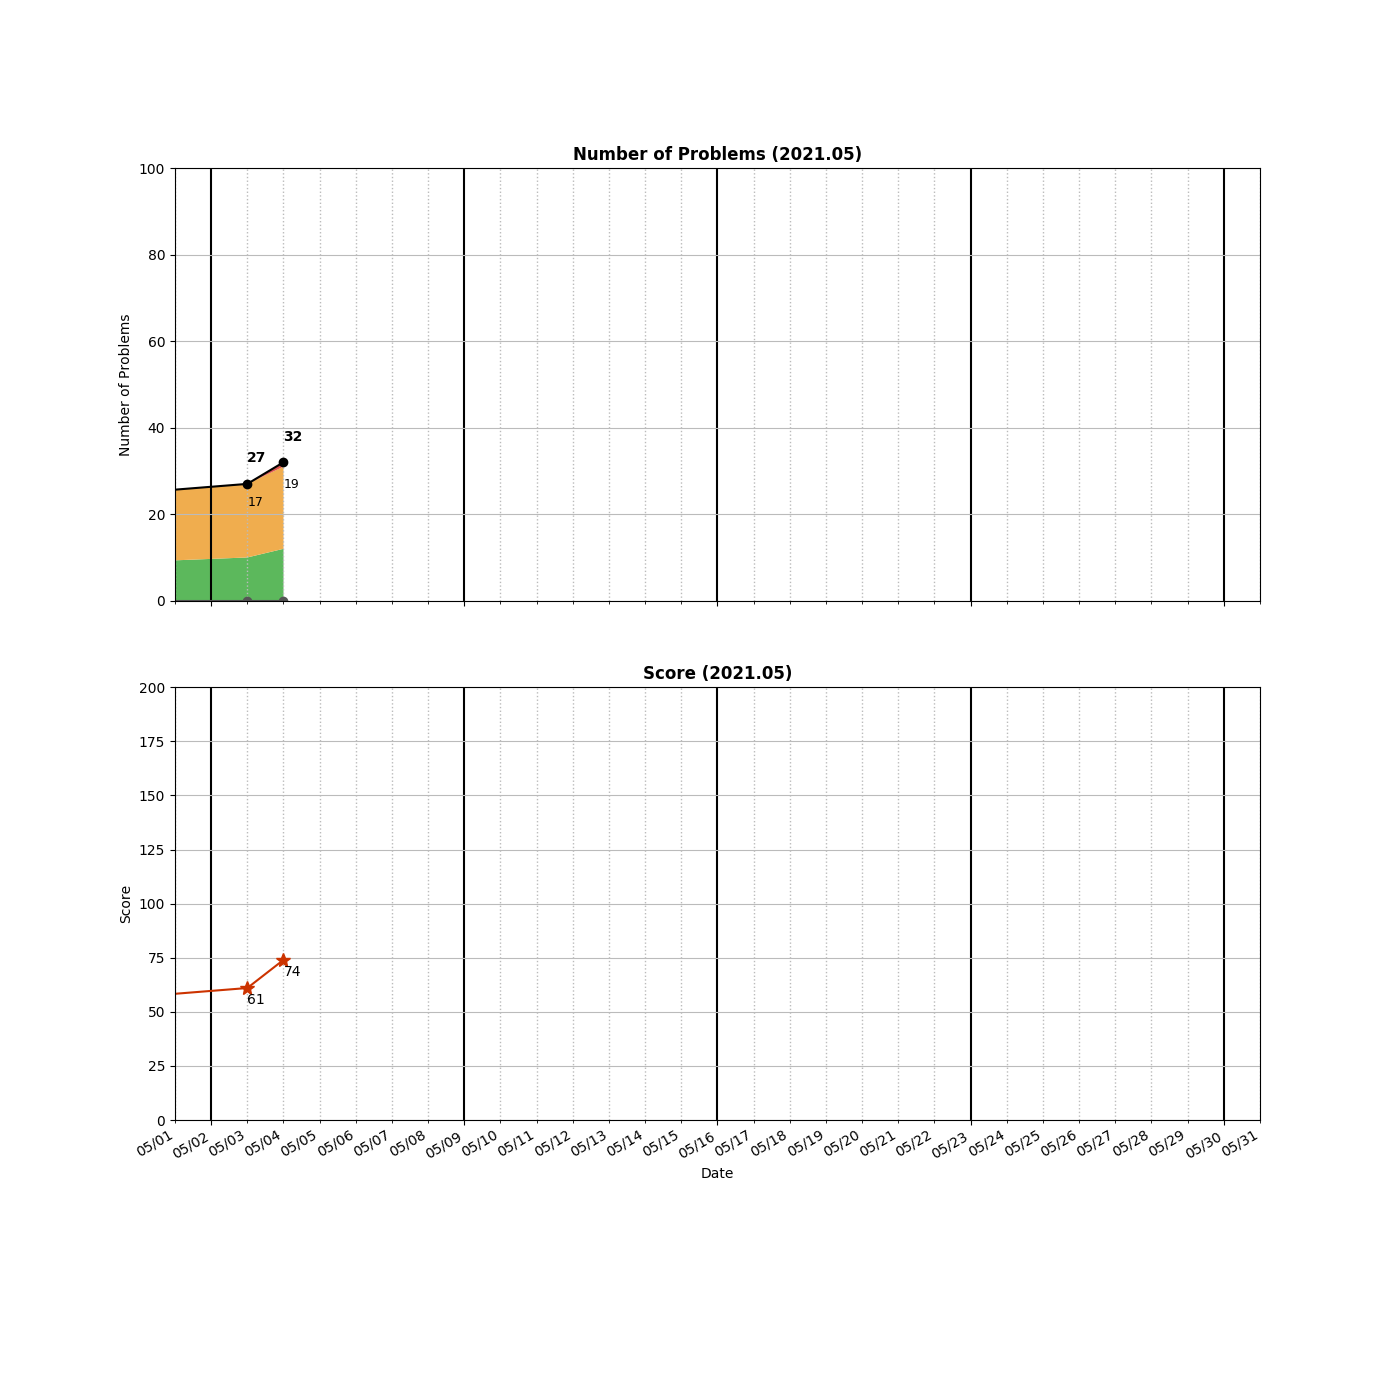
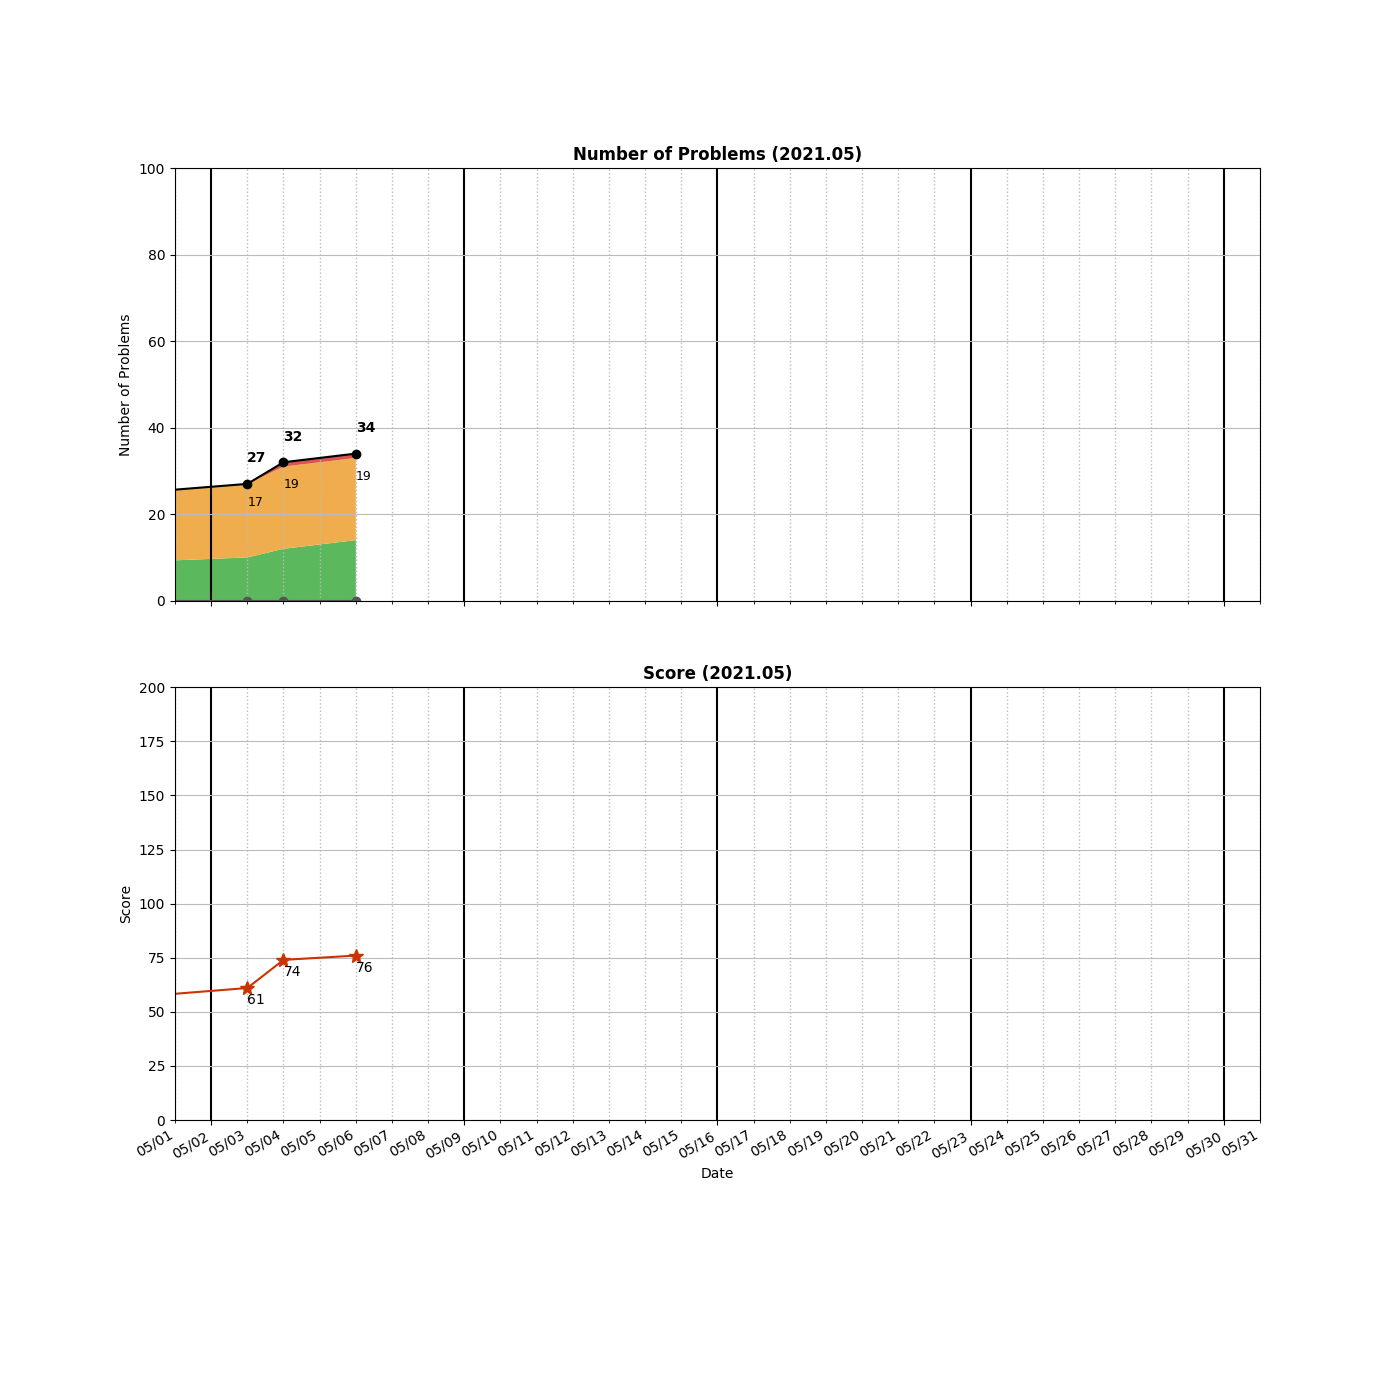
Added __0122__Best Time to Buy and Sell Stock II.py

Changed region(s): [[0.1843, 0.3071, 0.2764, 0.43], [0.2457, 0.6757, 0.2764, 0.7064]]

diff --git a/algo/Array/__0122__Best Time to Buy and Sell Stock II.py b/algo/Array/__0122__Best Time to Buy and Sell Stock II.py
@@ -1,0 +1,20 @@
+class Solution:
+    def maxProfit(self, prices: List[int]) -> int:
+        if not prices or len(prices) == 1:
+            return 0
+
+        revenue = 0
+        minVal = prices[0]
+        
+        for i in range(1, len(prices)):
+            minVal = min(minVal, prices[i-1])
+            #go up and down (sell at the peak)
+            if i >= 2 and prices[i-1] >= prices[i] and prices[i-2] <= prices[i-1]:
+                revenue += prices[i-1] - minVal
+                minVal = prices[i]
+                
+        #last chance (sell in the end)
+        if prices[-1] > minVal:
+            revenue += prices[-1] - minVal
+            
+        return revenue 

diff --git a/README.md b/README.md
@@ -1,6 +1,7 @@
 ```
 algo
 ├── Array
+│   └── __0122__Best\ Time\ to\ Buy\ and\ Sell\ Stock\ II.py
 ├── BFS
 │   ├── __0102__Binary\ Tree\ Level\ Order\ Traversal.py
 │   ├── __0107__Binary\ Tree\ Level\ Order\ Traversal\ II.py
@@ -19,6 +20,7 @@ algo
 │   ├── __0200__Number\ of\ Islands.py
 │   └── __0694__Number\ of\ Distinct\ Islands.py
 ├── DP
+│   ├── __0121__Best\ Time\ to\ Buy\ and\ Sell\ Stock.py
 │   └── __0322__Coin\ Change.py
 ├── DataStructure
 ├── HashMap
@@ -47,7 +49,7 @@ algo
     ├── __0003__Longest\ Substring\ Without\ Repeating\ Characters.py
     └── __0167__Two\ Sum\ II\ -\ Input\ array\ is\ sorted.py
 
-14 directories, 32 files
+14 directories, 34 files
 
 =====================================
 ============= Local Repo ============
@@ -71,6 +73,8 @@ __0107__Binary Tree Level Order Traversal II.py
 __0111__Minimum Depth of Binary Tree.py
 __0112__Path Sum.py
 __0113__Path Sum II.py
+__0121__Best Time to Buy and Sell Stock.py
+__0122__Best Time to Buy and Sell Stock II.py
 __0144__Binary Tree Preorder Traversal.py
 __0155__Min Stack.py
 __0167__Two Sum II - Input array is sorted.py
@@ -85,7 +89,7 @@ __0322__Coin Change.py
 __0617__Merge Two Binary Trees.py
 __0694__Number of Distinct Islands.py
 =====================================
-Num of Python Practice:  32
+Num of Python Practice:  34
 
 
 =====================================
@@ -110,6 +114,8 @@ Num of Python Practice:  32
  0111 Minimum Depth of Binary Tree
  0112 Path Sum
  0113 Path Sum II
+ 0121 Best Time to Buy and Sell Stock
+ 0122 Best Time to Buy and Sell Stock II
  0144 Binary Tree Preorder Traversal
  0155 Min Stack
  0167 Two Sum II - Input array is sorted
@@ -124,11 +130,11 @@ Num of Python Practice:  32
  0617 Merge Two Binary Trees
  0694 Number of Distinct Islands
 =====================================
-Solved / Total (Easy)  :   12 /  483
+Solved / Total (Easy)  :   14 /  483
 Solved / Total (Medium):   19 /  977
 Solved / Total (Hard)  :    1 /  391
-Solved / Total (All)   :   32 / 1851
-Total Score            :   74
+Solved / Total (All)   :   34 / 1851
+Total Score            :   76
 =====================================
 
 ```
